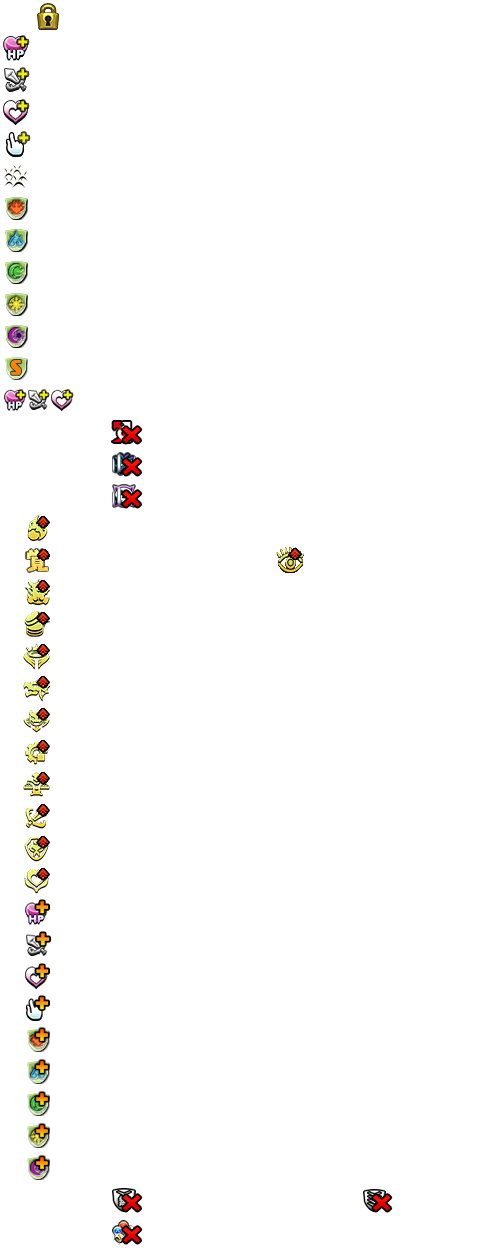
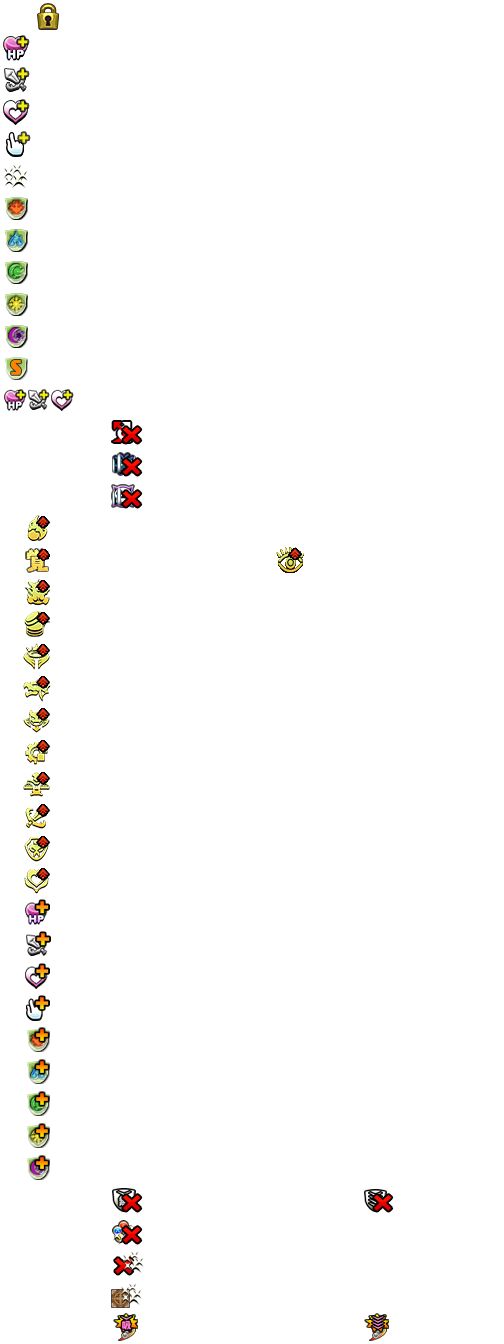
增加3个新潜觉

diff --git a/style-monsterimages.css b/style-monsterimages.css
@@ -699,7 +699,10 @@
 .latent-icon[data-latent-icon='14']::before,
 .latent-icon[data-latent-icon='15']::before,
 .latent-icon[data-latent-icon='37']::before,
-.latent-icon[data-latent-icon='38']::before
+.latent-icon[data-latent-icon='38']::before,
+.latent-icon[data-latent-icon='39']::before,
+.latent-icon[data-latent-icon='40']::before,
+.latent-icon[data-latent-icon='41']::before
 {
 	width: 252px;
 }
@@ -814,8 +817,17 @@
 .latent-icon[data-latent-icon='37']::before{ /*6色破无效*/
 	background-position-y: calc(-32px * 37);
 }
-.latent-icon[data-latent-icon='38']::before{ /*6色破属吸*/
+.latent-icon[data-latent-icon='38']::before{ /*3色破属吸*/
 	background-position-y: calc(-32px * 38);
+}
+.latent-icon[data-latent-icon='39']::before{ /*U解禁消*/
+	background-position-y: calc(-32px * 39);
+}
+.latent-icon[data-latent-icon='40']::before{ /*心横解转转*/
+	background-position-y: calc(-32px * 40);
+}
+.latent-icon[data-latent-icon='41']::before{ /*C珠破吸*/
+	background-position-y: calc(-32px * 41);
 }
 
 /* 徽章背景 */

diff --git a/triple.html b/triple.html
@@ -1471,7 +1471,10 @@ var formation = new Formation(teamsCount,6);
 					<li class="latent-icon" data-latent-icon="35"></li><!--大光盾-->
 					<li class="latent-icon" data-latent-icon="36"></li><!--大暗盾-->
 					<li class="latent-icon" data-latent-icon="37"></li><!--6色破无效-->
-					<li class="latent-icon" data-latent-icon="38"></li><!--6色破属吸-->
+					<li class="latent-icon" data-latent-icon="38"></li><!--3色破属吸-->
+					<li class="latent-icon" data-latent-icon="39"></li><!--U解禁消-->
+					<li class="latent-icon" data-latent-icon="40"></li><!--心横解转转-->
+					<li class="latent-icon" data-latent-icon="41"></li><!--C珠破吸-->
 				</ul>
 			</div>
 			<div class="setting-row row-mon-skill">

diff --git a/multi.html b/multi.html
@@ -826,7 +826,10 @@ var formation = new Formation(teamsCount,5);
 					<li class="latent-icon" data-latent-icon="35"></li><!--大光盾-->
 					<li class="latent-icon" data-latent-icon="36"></li><!--大暗盾-->
 					<li class="latent-icon" data-latent-icon="37"></li><!--6色破无效-->
-					<li class="latent-icon" data-latent-icon="38"></li><!--6色破属吸-->
+					<li class="latent-icon" data-latent-icon="38"></li><!--3色破属吸-->
+					<li class="latent-icon" data-latent-icon="39"></li><!--U解禁消-->
+					<li class="latent-icon" data-latent-icon="40"></li><!--心横解转转-->
+					<li class="latent-icon" data-latent-icon="41"></li><!--C珠破吸-->
 				</ul>
 			</div>
 			<div class="setting-row row-mon-skill">

diff --git a/solo.html b/solo.html
@@ -776,7 +776,10 @@ var formation = new Formation(teamsCount,6);
 					<li class="latent-icon" data-latent-icon="35"></li><!--大光盾-->
 					<li class="latent-icon" data-latent-icon="36"></li><!--大暗盾-->
 					<li class="latent-icon" data-latent-icon="37"></li><!--6色破无效-->
-					<li class="latent-icon" data-latent-icon="38"></li><!--6色破属吸-->
+					<li class="latent-icon" data-latent-icon="38"></li><!--3色破属吸-->
+					<li class="latent-icon" data-latent-icon="39"></li><!--U解禁消-->
+					<li class="latent-icon" data-latent-icon="40"></li><!--心横解转转-->
+					<li class="latent-icon" data-latent-icon="41"></li><!--C珠破吸-->
 				</ul>
 			</div>
 			<div class="setting-row row-mon-skill">

diff --git a/languages/en.css b/languages/en.css
@@ -367,7 +367,8 @@
 	background-position-x: -32px;
 }
 .latent-icon[data-latent-icon='17']::before,
-.latent-icon[data-latent-icon='38']::before
+.latent-icon[data-latent-icon='37']::before,
+.latent-icon[data-latent-icon='41']::before
 {
 	background-position-x: -252px;
 }

diff --git a/languages/ko.css b/languages/ko.css
@@ -355,7 +355,8 @@
 	background-position-x: -32px;
 }
 .latent-icon[data-latent-icon='17']::before,
-.latent-icon[data-latent-icon='38']::before
+.latent-icon[data-latent-icon='37']::before,
+.latent-icon[data-latent-icon='41']::before
 {
 	background-position-x: -252px;
 }
